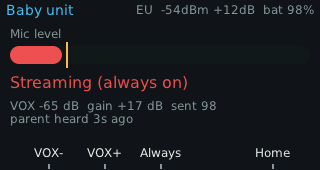
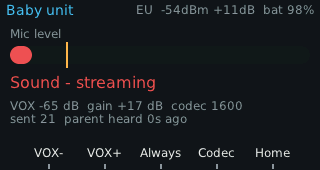
Add screenshots of the app to the README
- New Screens section (monitoring, pairing, home/link loss).
- store/screenshots/: re-captured baby and parent in normal VOX mode, plus
  the pairing entry screen and the link-lost banner.
- docs/images/: bezelled 2x composites, generated by
  tools/make_readme_images.py from the raw captures.

diff --git a/tools/make_readme_images.py b/tools/make_readme_images.py
@@ -1,0 +1,67 @@
+#!/usr/bin/env python3
+"""Build the README images from the raw framebuffer captures.
+
+Raw captures (320x170, one per screen) live in store/screenshots/ and are also
+the App Store assets. This script upscales them 2x with nearest-neighbour (the
+UI is pixel-exact, so no smoothing), adds a bezel, and composes the pairs used
+by README.md into docs/images/.
+
+    python3 tools/make_readme_images.py
+"""
+from pathlib import Path
+
+from PIL import Image, ImageDraw
+
+ROOT = Path(__file__).resolve().parent.parent
+SRC = ROOT / "store" / "screenshots"
+OUT = ROOT / "docs" / "images"
+SCALE = 2
+BEZEL = 10
+RADIUS = 10
+GAP = 20
+BEZEL_FILL = (11, 14, 17, 255)
+BEZEL_LINE = (42, 49, 56, 255)
+
+
+def framed(name):
+    """One screen: 2x nearest upscale inside a rounded dark bezel."""
+    raw = Image.open(SRC / name).convert("RGB")
+    screen = raw.resize((raw.width * SCALE, raw.height * SCALE), Image.NEAREST)
+    w, h = screen.size
+    outer = Image.new("RGBA", (w + 2 * BEZEL, h + 2 * BEZEL), (0, 0, 0, 0))
+    mask = Image.new("L", outer.size, 0)
+    ImageDraw.Draw(mask).rounded_rectangle([0, 0, outer.width - 1, outer.height - 1], RADIUS, fill=255)
+    body = Image.new("RGBA", outer.size, BEZEL_FILL)
+    body.putalpha(mask)
+    outer = Image.alpha_composite(outer, body)
+    screen_mask = Image.new("L", screen.size, 0)
+    ImageDraw.Draw(screen_mask).rounded_rectangle([0, 0, w - 1, h - 1], 4, fill=255)
+    outer.paste(screen, (BEZEL, BEZEL), screen_mask)
+    ImageDraw.Draw(outer).rounded_rectangle(
+        [0, 0, outer.width - 1, outer.height - 1], RADIUS, outline=BEZEL_LINE, width=1
+    )
+    return outer
+
+
+def row(names, out):
+    imgs = [framed(n) for n in names]
+    width = sum(i.width for i in imgs) + GAP * (len(imgs) - 1)
+    height = max(i.height for i in imgs)
+    canvas = Image.new("RGBA", (width, height), (0, 0, 0, 0))
+    x = 0
+    for i in imgs:
+        canvas.alpha_composite(i, (x, 0))
+        x += i.width + GAP
+    canvas.save(OUT / out, optimize=True)
+    print(f"{out}: {canvas.width}x{canvas.height}")
+
+
+def main():
+    OUT.mkdir(parents=True, exist_ok=True)
+    row(["baby.png", "parent.png"], "monitoring.png")
+    row(["pair.png", "pair-enter.png"], "pairing.png")
+    row(["home.png", "link-lost.png"], "home-linklost.png")
+
+
+if __name__ == "__main__":
+    main()

diff --git a/README.md b/README.md
@@ -7,6 +7,26 @@ A baby monitor for two M5Stack **CardputerZero** devices fitted with the **Cap L
 - **Audio:** the Baby unit compresses sound with **Codec2 1600** (8 kHz) and sends it encrypted (ChaCha20-Poly1305) over LoRa while it hears something (VOX gate). The Parent unit plays it and draws a scrolling waveform.
 - **Link loss:** the Parent shows *LINK LOST* after 10 s without a packet. The Baby sends a heartbeat every 2 s while quiet.
 
+## Screens
+
+### Monitoring
+
+The Baby unit (left) watches the mic level and streams as soon as sound crosses its VOX threshold. The Parent unit (right) decodes the audio, plays it on its speaker and draws a scrolling waveform: quiet noise in blue, loud sound in orange/red.
+
+![Baby unit streaming sound, parent unit playing it and drawing the waveform](docs/images/monitoring.png)
+
+### Pairing
+
+Press **4** on one device to show a 6-digit code, **5** on the other to pick it from the list of discovered devices and type the code. Both then store a shared link key, and the last used roles are restored on the next start.
+
+![Code shown on one device and typed on the other](docs/images/pairing.png)
+
+### Home and link loss
+
+The Home screen shows the paired device, the band in use, and the role buttons (choosing a role switches the other device automatically). If the Parent stops hearing the Baby for 10 s, it covers the waveform with a *LINK LOST* banner.
+
+![Home screen with role buttons, and the link lost banner on the parent](docs/images/home-linklost.png)
+
 ## Radio
 
 Two bands; press **6 (Region)** on the Home screen to switch. The choice is saved per device in `~/.config/cpz-baby-monitor/region.txt`. When paired, the device sends the request to its peer on the current band and both retune. When unpaired, only the local device switches, so set both to the same band before pairing.
@@ -60,7 +80,9 @@ $B --codec-loop 15       # mic -> codec2 -> speaker
 $B --bench-codec
 ```
 
-`tools/e2e_driver.py` drives the real app on a device through a virtual uinput keyboard and takes framebuffer screenshots. It's used for automated end-to-end checks.
+`tools/e2e_driver.py` drives the real app on a device through a virtual uinput keyboard and takes framebuffer screenshots; it is used for automated end-to-end checks.
+
+The raw 320×170 captures live in `store/screenshots/` (they are also the App Store assets). `python3 tools/make_readme_images.py` rebuilds the bezelled composites in `docs/images/` used above, so refreshing the screenshots only takes new captures from the devices.
 
 ## Layout
 
